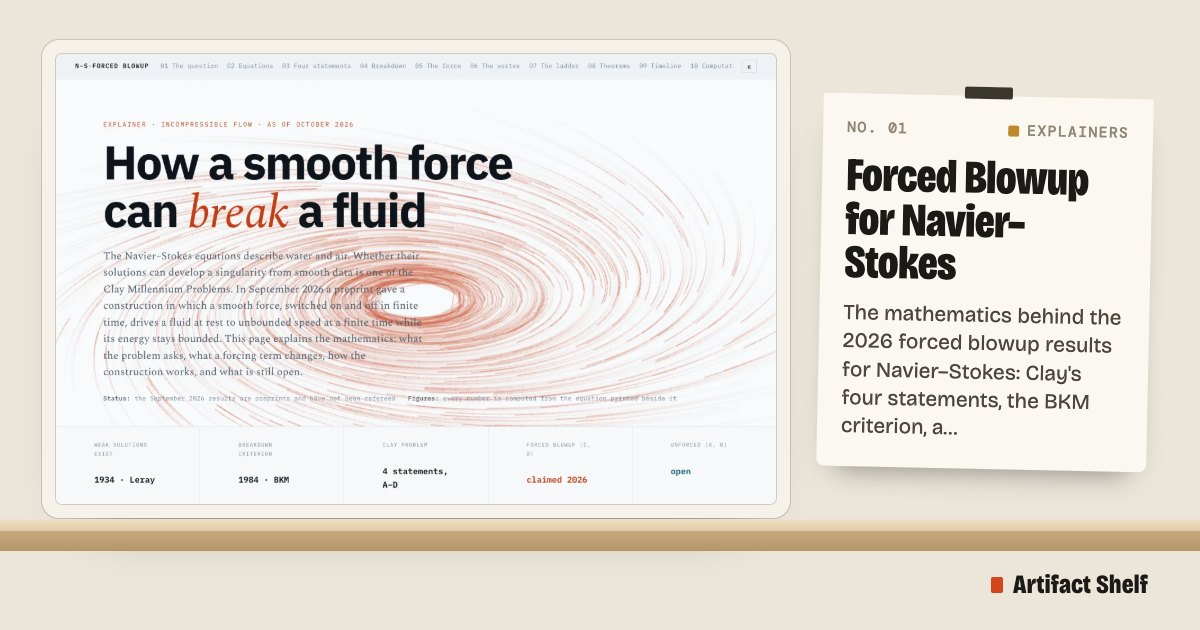
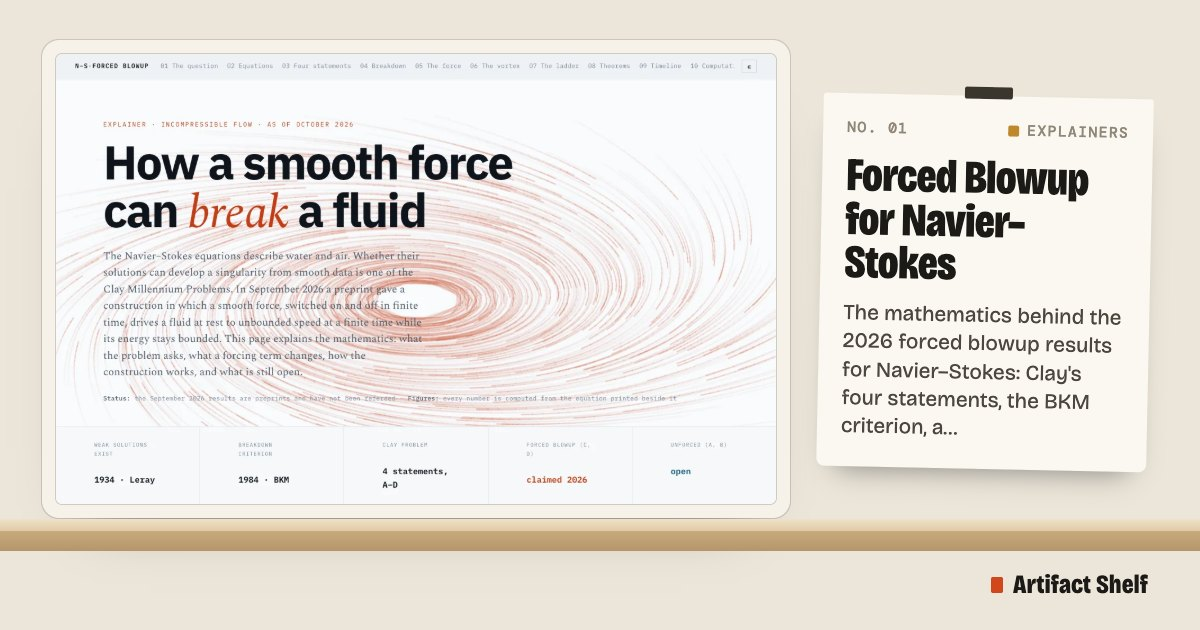
Navier–Stokes: drop the stale title; paused buttons say Run
From the second Codex review on #1:
- a leftover <title>The Navier–Stokes Affair</title> came first, so tabs
  and bookmarks showed the old name
- with reduced motion the figures start paused, but four of their buttons
  still read Pause; they now read Run, as the Burgers figure already did

diff --git a/artifacts/navier-stokes-forced-blowup/index.html b/artifacts/navier-stokes-forced-blowup/index.html
@@ -1,5 +1,4 @@
 <!doctype html><html lang="en"><head><meta charset=utf8><meta name=viewport content="width=device-width,initial-scale=1"><style>:root{color-scheme:light}body{margin:0;padding:0;font:14px -apple-system,BlinkMacSystemFont,sans-serif;background:#faf9f5;color:#141413}img{max-width:100%}[hidden]:not([hidden=until-found i]){display:none!important}</style></head><body>
-<title>The Navier–Stokes Affair</title>
 <link rel="preconnect" href="https://fonts.googleapis.com">
 <link rel="preconnect" href="https://fonts.gstatic.com" crossorigin>
 <link rel="stylesheet" href="https://fonts.googleapis.com/css2?family=Spectral:ital,wght@0,300;0,400;0,500;0,600;0,700;1,300;1,400;1,500;1,600&family=IBM+Plex+Mono:wght@400;500;600&family=IBM+Plex+Sans:wght@400;500;600;700&display=swap">
@@ -1830,5 +1829,10 @@ const fmtE = v => {
   apply();
 })();
 
+/* reduced motion: these figures start paused, so their buttons must say so */
+if (RM) ["vRun", "lRun", "bvRun", "kRun"].forEach(id => {
+  const b = document.getElementById(id);
+  if (b){ b.textContent = "Run"; b.setAttribute("aria-pressed", "false"); }
+});
 })();
 </script>
